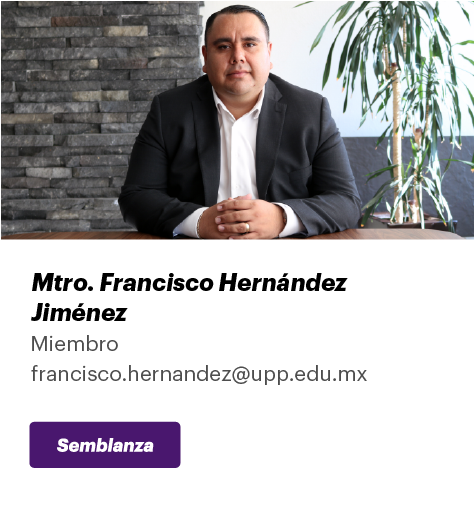
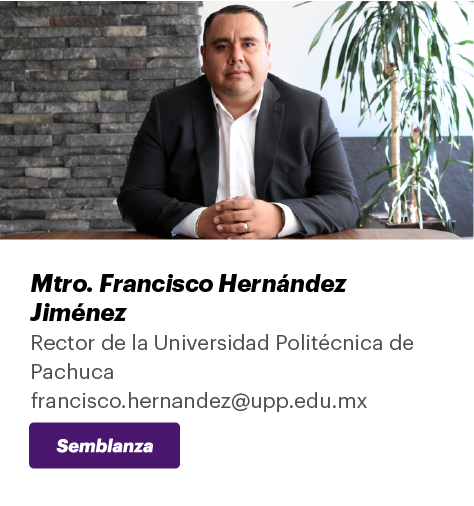
Cambios Cards de Comité 20112025 12:29

diff --git a/index.html b/index.html
@@ -635,17 +635,17 @@
         <div class="col-sm-12 text-center container">
             <div class="row">
                 <div class="col-md-4" style="padding-bottom: 30px;">
+                  <button type="button" class="btn card_btn modal-dialog-scrollable" data-bs-toggle="modal" data-bs-target="#modalCard3">
+                    <img src="files/imagenes/comite/DraMariadelRocioCarranzaAlcantar.png" class="img-fluid"   alt="Comité Académico">
+                  </button>
+                </div>
+                <div class="col-md-4" style="padding-bottom: 30px;">
                   <button type="button" class="btn card_btn modal-dialog-scrollable" data-bs-toggle="modal" data-bs-target="#modalCard1">
                   <img src="files/imagenes/comite/DraClaudiaIslasTorres.png" class="img-fluid"  alt="Comité Académico"></button>
                 </div>
                 <div class="col-md-4" style="padding-bottom: 30px;">
                   <button type="button" class="btn card_btn modal-dialog-scrollable" data-bs-toggle="modal" data-bs-target="#modalCard2">
                     <img src="files/imagenes/comite/DraRosanaRuizSanchez.png" class="img-fluid"   alt="Comité Académico">
-                  </button>
-                </div>
-                <div class="col-md-4" style="padding-bottom: 30px;">
-                  <button type="button" class="btn card_btn modal-dialog-scrollable" data-bs-toggle="modal" data-bs-target="#modalCard3">
-                    <img src="files/imagenes/comite/RIDMAEv2.png" class="img-fluid"   alt="Comité Académico">
                   </button>
                 </div>
             </div>
@@ -656,6 +656,11 @@
         <div class="col-sm-12 text-center container">
             <div class="row">
                 <div class="col-md-4" style="padding-bottom: 30px;">
+                  <button type="button" class="btn card_btn modal-dialog-scrollable" data-bs-toggle="modal" data-bs-target="#modalCard6">
+                    <img src="files/imagenes/comite/MtroFranciscoHernandezJimenez.png" class="img-fluid"   alt="Comité Organizador">
+                  </button>
+                </div>
+                <div class="col-md-4" style="padding-bottom: 30px;">
                   <button type="button" class="btn card_btn modal-dialog-scrollable" data-bs-toggle="modal" data-bs-target="#modalCard4">
                     <img src="files/imagenes/comite/DraLiliaBenitezC.png" class="img-fluid"  alt="Comité Organizador">
                   </button>
@@ -663,11 +668,6 @@
                 <div class="col-md-4" style="padding-bottom: 30px;">
                   <button type="button" class="btn card_btn modal-dialog-scrollable" data-bs-toggle="modal" data-bs-target="#modalCard5">
                     <img src="files/imagenes/comite/DraReynaCMartinezR.png" class="img-fluid"   alt="Comité Organizador">
-                  </button>
-                </div>
-                <div class="col-md-4" style="padding-bottom: 30px;">
-                  <button type="button" class="btn card_btn modal-dialog-scrollable" data-bs-toggle="modal" data-bs-target="#modalCard6">
-                    <img src="files/imagenes/comite/MtroFranciscoHernandezJimenez.png" class="img-fluid"   alt="Comité Organizador">
                   </button>
                 </div>
             </div>
@@ -871,7 +871,7 @@
       </div>
       <div class="modal-body" style="text-align: justify;">
         <img src="files/imagenes/cards/DraClaudiaIslasTorres.png" class="img-fluid rounded imagen-centrada" alt="" style="width: 250px;">
-        <h5 style="text-align: center;">
+        <h5 style="text-align: center;"><br>
           Dra. Claudia Islas Torres<br>
           Presidenta del comité<br>
           Universidad de Guadalajara 
@@ -900,7 +900,7 @@
       </div>
       <div class="modal-body" style="text-align: justify;">
         <img src="files/imagenes/cards/DraRosanaRuizSanchez.png" class="img-fluid rounded imagen-centrada" alt="" style="width: 250px;">
-        <h5 style="text-align: center;">
+        <h5 style="text-align: center;"><br>
           Dra. Rosana Ruiz Sánchez<br>
           Secretaria del comité<br>
           Universidad de Guadalajara
@@ -927,20 +927,15 @@
         <button type="button" class="btn-close" data-bs-dismiss="modal" aria-label="Cerrar"></button>
       </div>
       <div class="modal-body" style="text-align: justify;">
-        <img src="files/imagenes/cards/RIDMAEv2.png" class="img-fluid rounded imagen-centrada" alt="" style="width: 250px;">
+        <img src="files/imagenes/cards/DraMariadelRocioCarranzaAlcantar.png" class="img-fluid rounded imagen-centrada" alt="" style="width: 250px;"><br>
         <h5 style="text-align: center;">
-          Red de Investigadores y Docentes de México, América Latina, Andorra y España.<br>
-          RIDMAE<br>
-          ridmae@cualtos.udg.mx
+          Dra. María del Rocío Carranza Alcántar<br><br>
+          Presidenta de la Red de Investigadores y Docentes de México, América Latina, Andorra y España<br><br>
+          mcarranza@cualtos.udg.mx
         </h5>
-        <p>Es una red de colaboración académica dedicada a generar y divulgar conocimiento en las ciencias de la educación. Su propósito es promover la innovación, la formación, el intercambio y la cooperación académica y científica. Sus principales acciones incluyen:<br>
-          •	Publicaciones conjuntas.<br>
-          •	Gestión de recursos y organización de eventos científicos.<br>
-          •	Capacitación y formación de actores educativos.<br>
-          •	Intercambio de estudiantes y académicos.<br>
-          •	Participación en asesorías y proyectos de investigación.<br>
-          La Red es también responsable del Congreso Internacional de Enseñanza Universitaria (CIENU), organizado anualmente con apoyo de instituciones afiliadas, fortaleciendo el intercambio académico entre América Latina y la Unión Europea.
-      </p>
+        <!--<p>
+          Es una red de colaboración académica dedicada a generar y        
+        </p>-->
       </div>
 
     </div>
@@ -1006,26 +1001,24 @@
 </div>
 
 <!-- Modal 6 -->
-<!--<div class="modal fade" id="modalCard6" tabindex="-1" aria-labelledby="modalCard6Label" aria-hidden="true">
+<div class="modal fade" id="modalCard6" tabindex="-1" aria-labelledby="modalCard6Label" aria-hidden="true">
   <div class="modal-dialog modal-dialog-centered modal-dialog-scrollable">
     <div class="modal-content">
       <div class="modal-header">
-        <h5 class="modal-title" id="modalCard6Label">Ponente 6 - Nombre</h5>
+        <h5 class="modal-title" id="modalCard6Label">Semblanza</h5>
         <button type="button" class="btn-close" data-bs-dismiss="modal" aria-label="Cerrar"></button>
       </div>
       <div class="modal-body" style="text-align: justify;">
-        <img src="files/imagenes/cards/m.png" class="img-fluid rounded imagen-centrada" alt="" style="width: 250px;">
-        <p>Lorem ipsum dolor sit amet, consectetur adipiscing elit. Cras vitae ligula at mauris suscipit sodales...</p>
-        <p>Etiam tristique, elit in blandit consectetur, magna odio interdum neque, a volutpat libero metus nec urna...</p>
-        <p>Morbi sit amet cursus neque. Vestibulum ante ipsum primis in faucibus orci luctus et ultrices posuere cubilia...</p>
-        <p>Phasellus et nisl sed mauris imperdiet pretium. Nullam vulputate magna id metus hendrerit pulvinar...</p>
-        <p>Curabitur tempus lacus ut sapien posuere, nec volutpat lorem vestibulum...</p>
-        <p>... (agrega más texto para probar el scroll interno) ...</p>
+        <img src="files/imagenes/cards/MtroFranciscoHernandezJimenez.png" class="img-fluid rounded imagen-centrada" alt="" style="width: 250px;">
+        <h5 style="text-align: center;"><br>
+          Mtro. Francisco Hernández Jiménez<br><br>
+          Rector de la Universidad Politécnica de Pachuca<br><br>
+          francisco.hernandez@upp.edu.mx
+        </h5>
       </div>
-
     </div>
   </div>
-</div>-->
+</div>
 
 
 </body>
